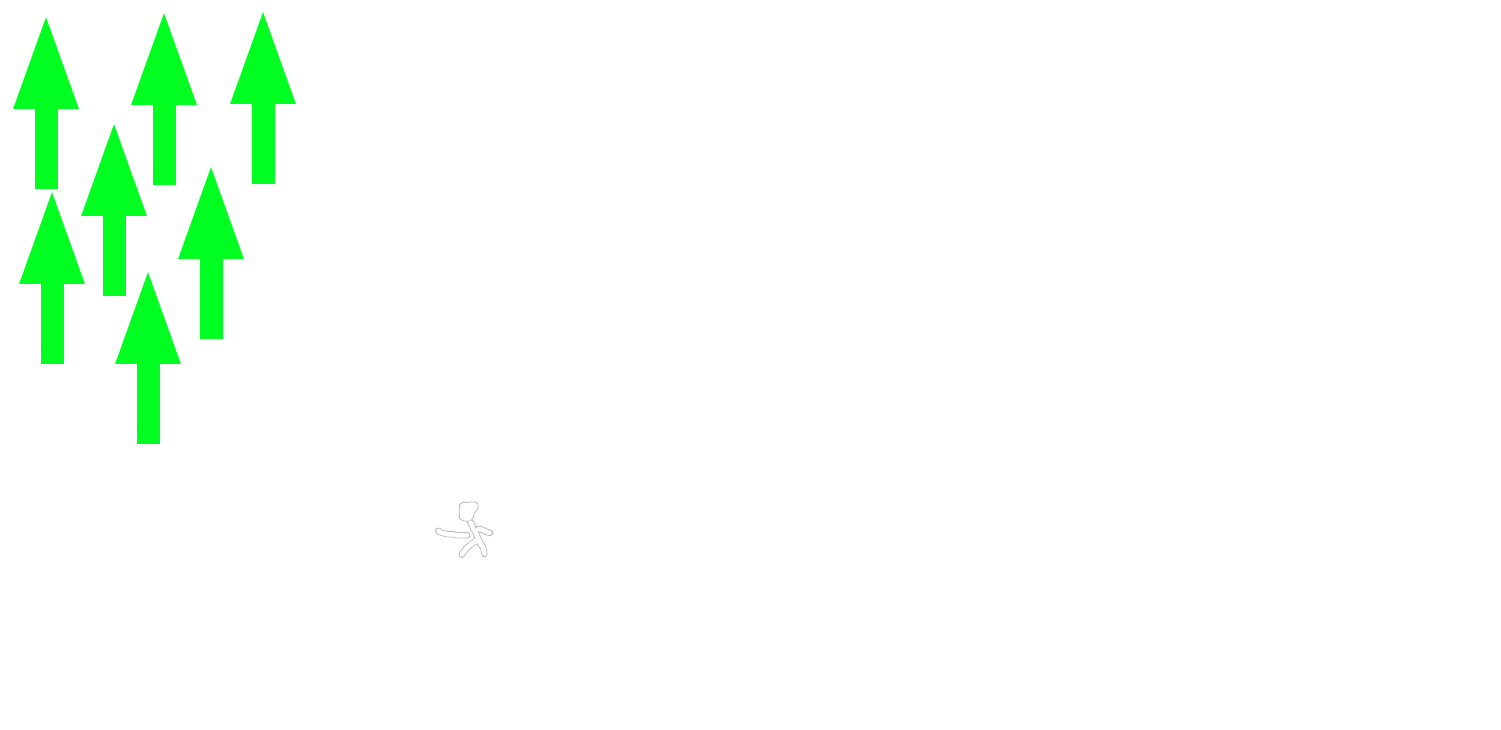
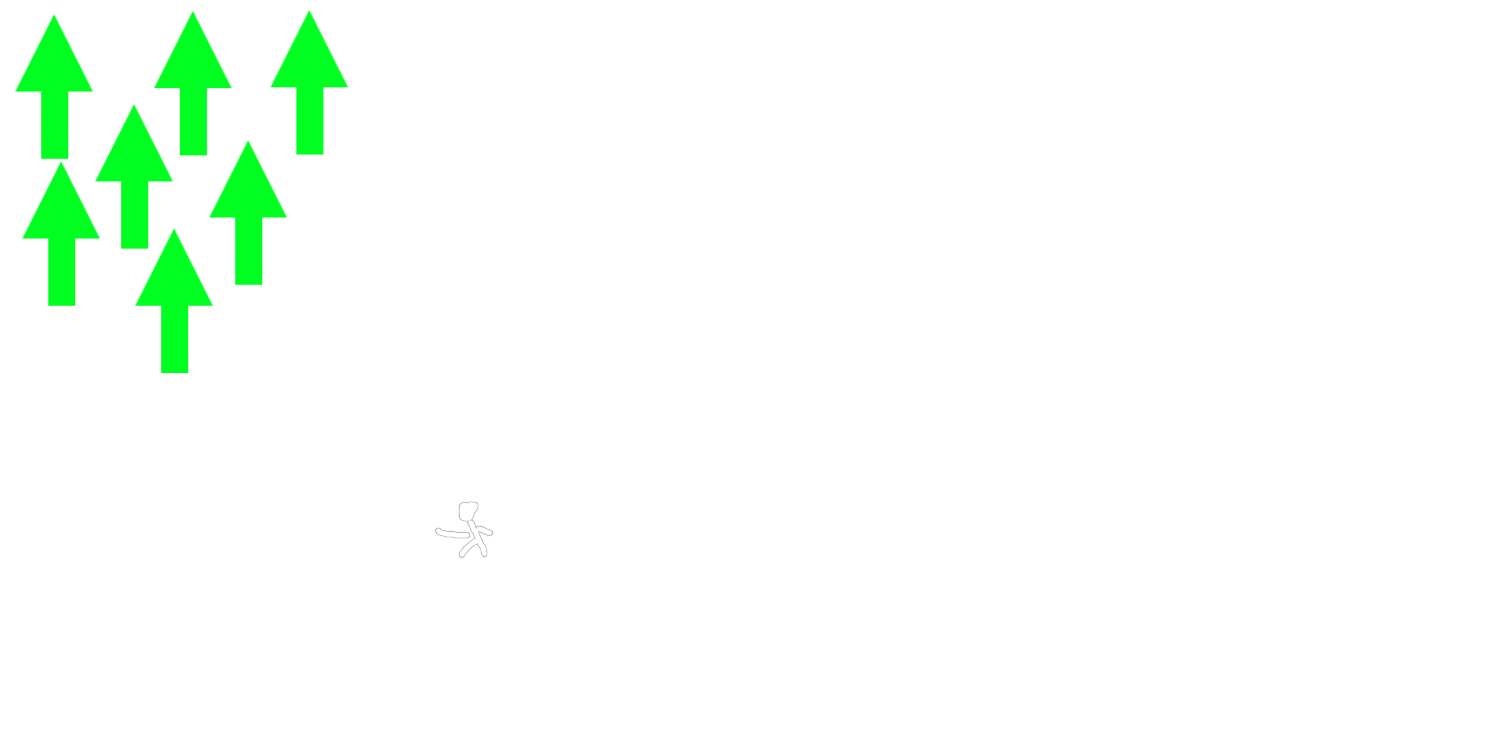
Adicionadas animacoes para recursos, med e alojamento

Changed region(s): [[0.0, 0.0301, 0.2452, 0.6027]]

diff --git a/gulags.py b/gulags.py
@@ -9,7 +9,7 @@ import time
 class Campo():
     
     #Valores do campo
-    def __init__(self,nome,nome_r,r_detec,recursos,extracao,r_nevasca,clima,minipos,mini="gulag3.png",foto="arnold.png", anim_speed=20):
+    def __init__(self,nome,nome_r,r_detec,recursos,extracao,r_nevasca,clima,minipos,mini="gulag3.png",foto="arnold.png", anim_speed=10):
         
         #Infor básica - imutável
         self.nome = nome
@@ -23,7 +23,7 @@ class Campo():
         #Valores a serem alterados com upgrades
         self.aquecedor = 0
         self.seguranca = 0
-        self.medica = 0
+        self.medica = 2
         self.lazer = 0
              
         #Status do campo
@@ -50,14 +50,29 @@ class Campo():
         if self.extracao:
             if self.extracao == "Madeira":
                 self.ani_rec = glob.glob("imgs/gulags/recursos/madeira/m_*.png")
-                print(self.ani_rec)
             if self.extracao == "Mineração / Siderúrgica":
                 self.ani_rec = glob.glob("imgs/gulags/recursos/mineracao/m_*.png")
             self.ani_rec.sort()
             self.ani_rec_pos = 0
             self.ani_rec_max = len(self.ani_rec)-1
             self.img_rec = pygame.image.load(self.ani_rec[0])
-    
+            
+        self.ani_alo = glob.glob("imgs/gulags/alojamento/a_*.png")
+        self.ani_alo.sort()
+        self.ani_alo_pos = 0
+        self.ani_alo_max = len(self.ani_alo)-1 
+        self.img_alo =  pygame.image.load(self.ani_alo[0]) 
+        
+        if self.medica != 0:
+            if self.medica == 1:
+                self.ani_med = glob.glob("imgs/gulags/medico/lvl1/m_*.png")
+            else:
+                self.ani_med = glob.glob("imgs/gulags/medico/lvl2/m_*.png")
+            self.ani_med.sort()
+            self.ani_med_pos = 0
+            self.ani_med_max = len(self.ani_med)-1
+            self.img_med = pygame.image.load(self.ani_med[0])
+        
     #Print dos dados de cada campo  
     def __repr__(self):
         return f"""\nNome: '{self.nome}', R. deteção: '{self.r_detec}', Recursos: '{self.recursos}'
@@ -66,12 +81,15 @@ class Campo():
                    Felicidade: '{self.felicidade}', Prod_Mensal: '{self.prod_mensal}', Medo: '{self.medo}'\n"""
 
     #Mostra a representação visual animada do campo na tela de gameplay
-    def demo_visual(self,screen):   
+    def demo_visual(self,screen,sw,sh):   
          
         self.ani_speed -= 1
         
+        escala_geral = (swi(sw,.75),shi(sh,.68))
+        
         if self.ani_speed == 0:
         
+            #Img dos rescuros
             if self.recursos:
                 self.img_rec = pygame.image.load(self.ani_rec[self.ani_rec_pos])
                 
@@ -79,10 +97,35 @@ class Campo():
                     self.ani_rec_pos = 0
                 else:
                     self.ani_rec_pos += 1
-            self.ani_speed = self.ani_speed_init   
-        
-        screen.blit(self.img_rec,(250,250))    
             
+            #Img do alojamento
+            self.img_alo = pygame.image.load(self.ani_alo[self.ani_alo_pos])
+            if self.ani_alo_pos == self.ani_alo_max:
+                self.ani_alo_pos = 0
+            else:
+                self.ani_alo_pos += 1
+
+            #Img do medico
+            if self.medica != 0:
+                self.img_med = pygame.image.load(self.ani_med[self.ani_med_pos])
+                if self.ani_med_pos == self.ani_med_max:
+                    self.ani_med_pos = 0
+                else:
+                    self.ani_med_pos += 1
+                    
+            #Reset do contador
+            self.ani_speed = self.ani_speed_init 
+            
+        self.img_rec = pygame.transform.scale(self.img_rec, escala_geral)
+        screen.blit(self.img_rec,(swi(sw,.22,20),shi(sh,0.06)))    
+        
+        self.img_alo = pygame.transform.scale(self.img_alo, escala_geral)
+        screen.blit(self.img_alo,(swi(sw,.22,20),shi(sh,0.06))) 
+        
+        self.img_med = pygame.transform.scale(self.img_med, escala_geral)
+        screen.blit(self.img_med,(swi(sw,.22,20),shi(sh,0.06))) 
+        
+        
 
 
 def setup_inicial():

diff --git a/main.py b/main.py
@@ -132,9 +132,12 @@ while True:
             
             screen.fill((0,0,0))
             
-            draw_text(gulag.nome, vermelho, screen, tamanho=swi(sw,0.02), x=swi(sw,0.02), y=shi(sh,0.05))
+            #draw_text(gulag.nome, vermelho, screen, tamanho=swi(sw,0.02), x=swi(sw,0.02), y=shi(sh,0.05))
             
-            gulag.demo_visual(screen)
+            #Quadro do preview visual do campo
+            sec_preview = draw_section(screen,swi(sw,.22,10),shi(sh,.05),swi(sw,.75),shi(sh,.68),8)
+            
+            gulag.demo_visual(screen,sw,sh)
             
             for event in pygame.event.get():
                 if event.type == QUIT:
@@ -264,6 +267,8 @@ while True:
         running = True
         while running:
             screen.fill((0,0,0))
+            
+    
             
             for event in pygame.event.get():
                 if event.type == QUIT:
